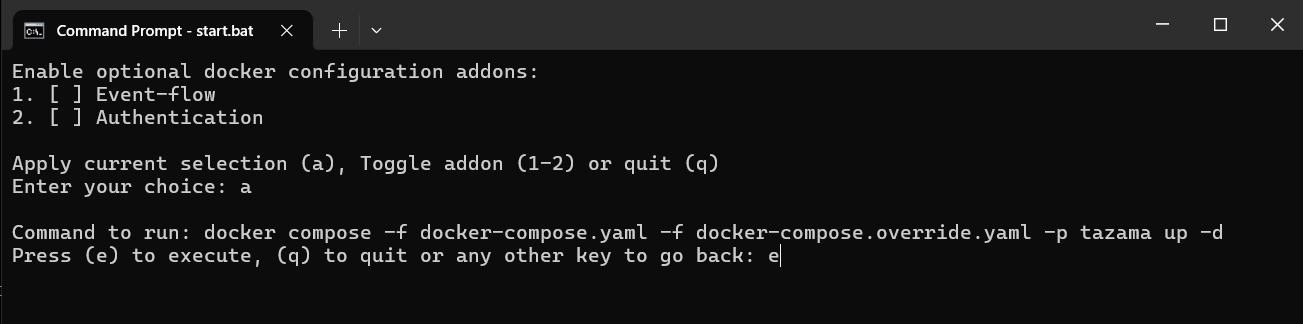
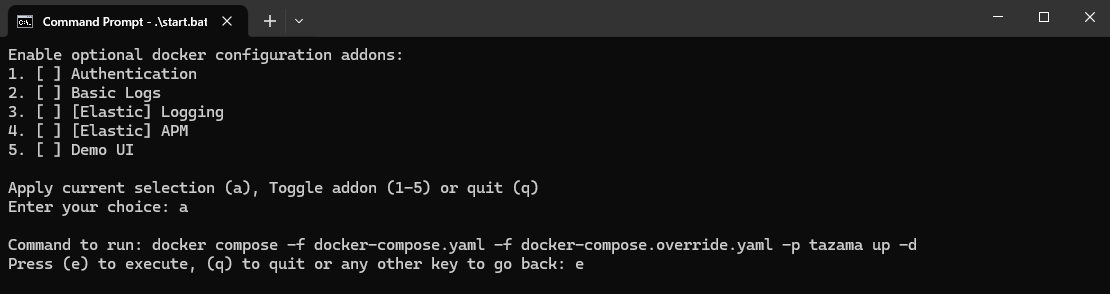
docs: update readme

Changed region(s): [[0.0, 0.0, 1.0, 0.9184], [0.9802, 0.0306, 1.0, 0.0918], [0.9189, 0.0306, 0.9495, 0.0918]]

diff --git a/README.md b/README.md
@@ -217,7 +217,7 @@ The services are split up in multiple yamls,
 
 | Docker-Compose File | Services |
 | -------- | ------- |
-| docker-compose | tms, ed, tp, tadp, admin |
+| docker-compose | tms, ed, tp, tadp, admin, ef |
 | docker-compose.override | rule-901, set up all services |
 | docker-compose.infrastructure | arango, redis, nats, valkey |
 | docker-compose.dev.nats-utils | Nats-Utilities |
@@ -225,7 +225,9 @@ The services are split up in multiple yamls,
 | docker-compose.dev.logs-base | event-sidecar, lumberjack, all service changes |
 | docker-compose.dev.logs-elastic | event-sidecar, lumberjack, elasticsearch, kibana |
 | docker-compose.dev.apm-elastic | event-sidecar, lumberjack, elasticsearch, kibana, apmserver |
-| docker-compose.event-flow | FRuP |
+
+> [!IMPORTANT]  
+> Turn off `tms` API authentication for the `Demo UI` to work.
 
 If you want to restart or alter certain processors - 
 
